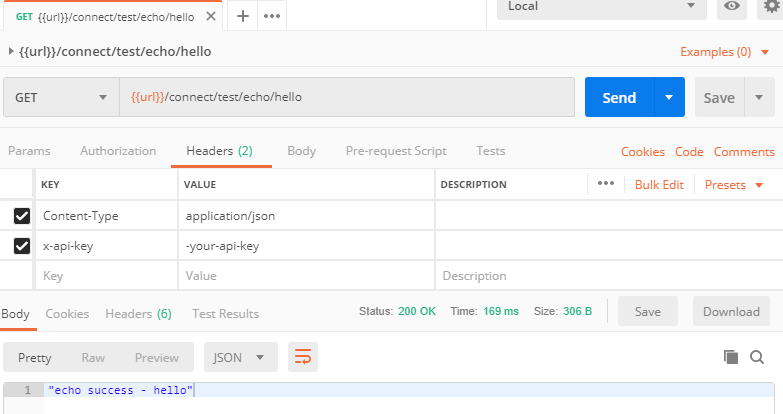
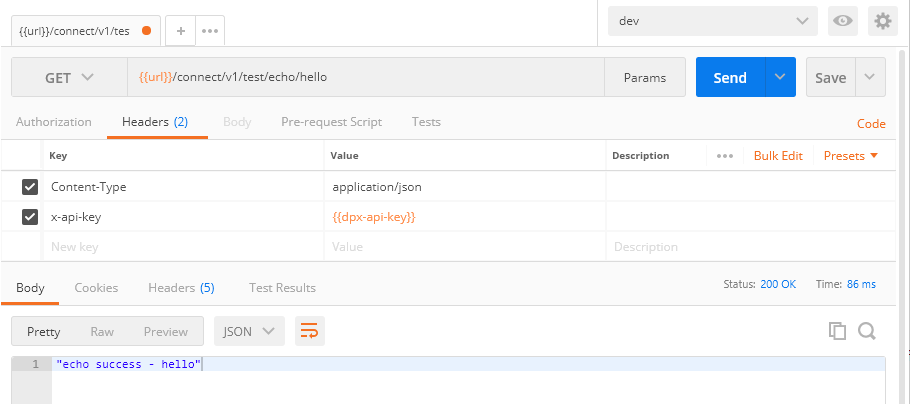
Added example with user-impersonation

diff --git a/README.md b/README.md
@@ -53,7 +53,11 @@ Refer the Postman example to request echo endpoint
 
 [GET] `/connect/test/echo`
 
+**Sample Request**
 ![alt text](images/Connect_APIs_1.PNG "API Key based request")
+
+**Sample Request _with user-impersonation_**
+![alt text](images/Connect_APIs_2.PNG "API Key based request with impersonation")
 
 #### <span id="connect-api-specification"> API V1 Specification
 
